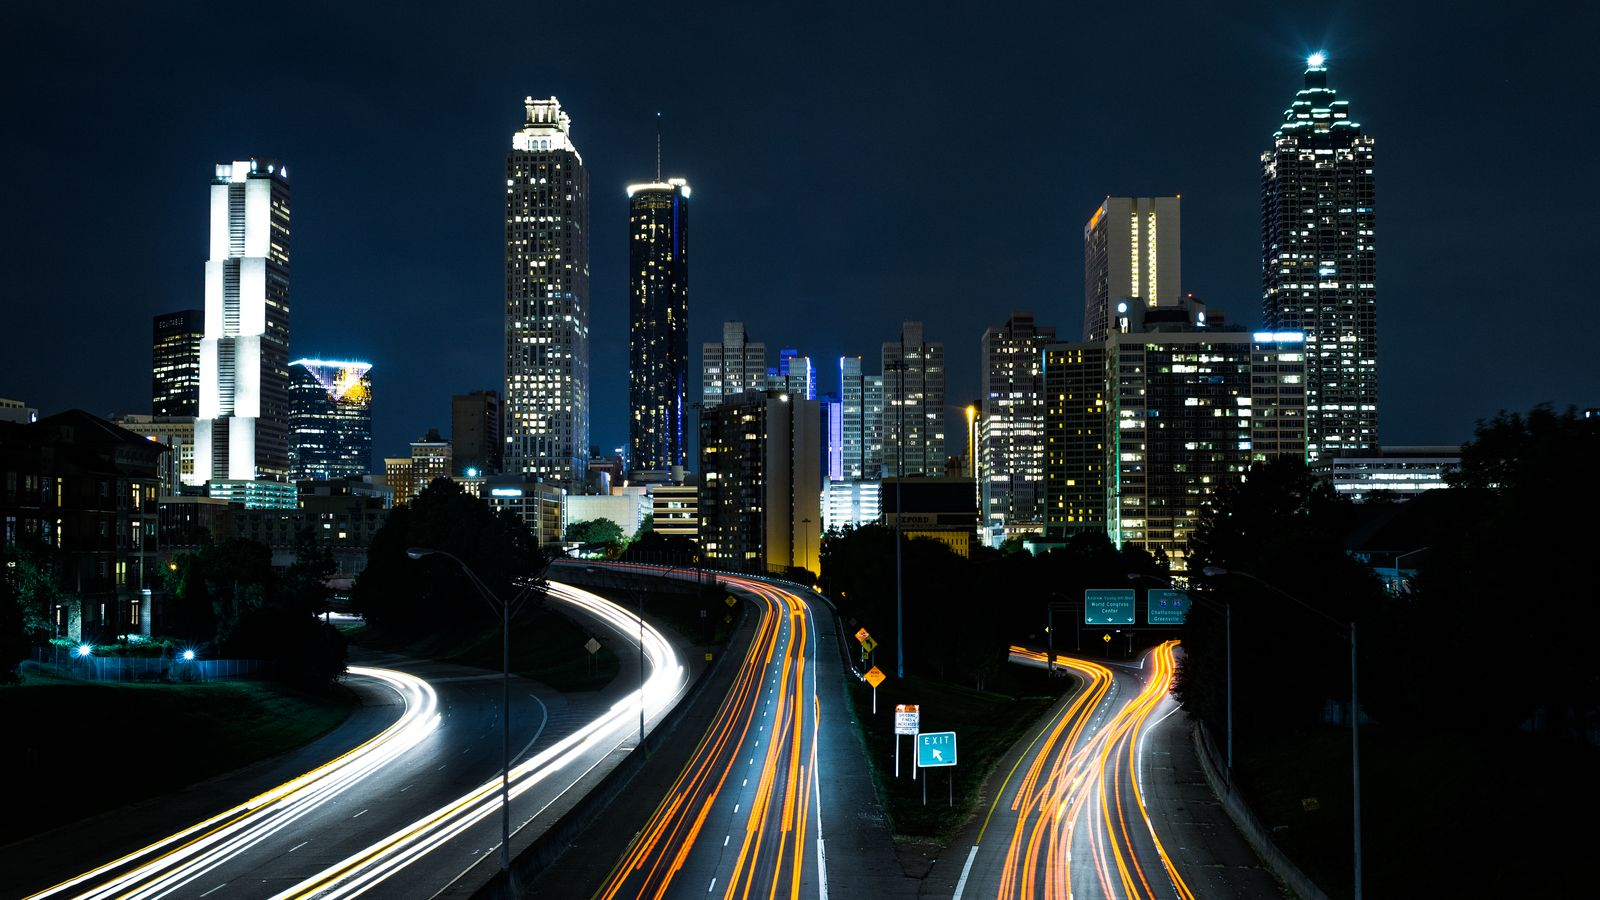
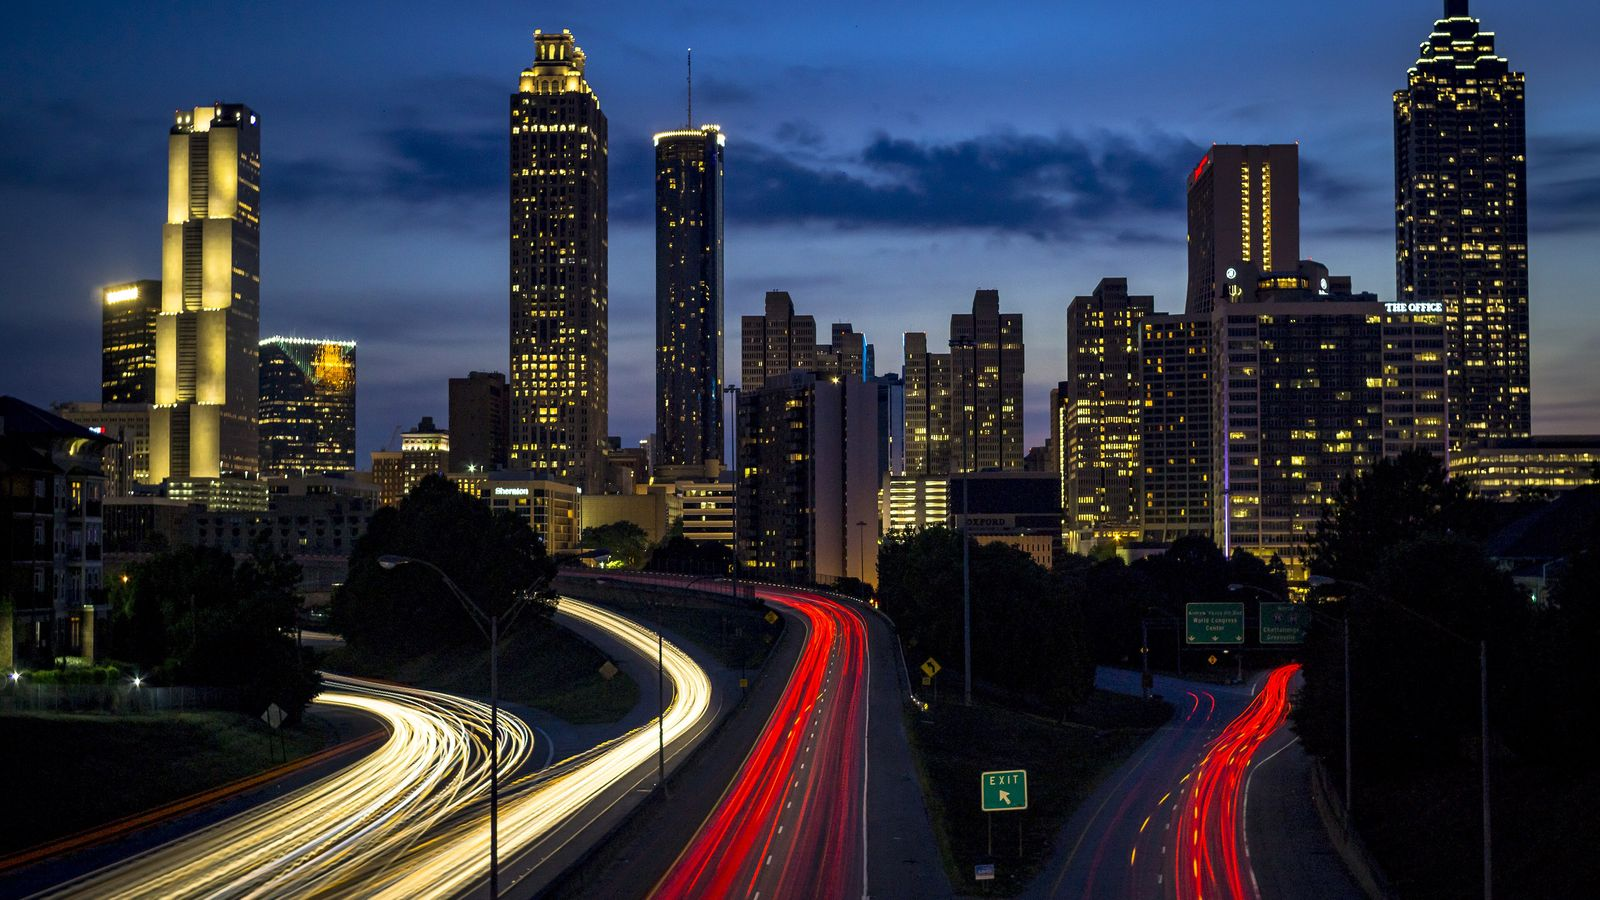
Swap hero photo to CC0 blue-hour Atlanta skyline (Jackson Street Bridge)

diff --git a/styles.css b/styles.css
@@ -202,7 +202,7 @@ li { margin-bottom: 0.4rem; }
 
 .hero-bg-b {
   background-image:
-    linear-gradient(135deg, rgba(2, 6, 17, 0.72), rgba(8, 10, 22, 0.76)),
+    linear-gradient(135deg, rgba(2, 6, 17, 0.6), rgba(8, 10, 22, 0.65)),
     url("images/atlanta.jpg");
   opacity: 0;
   animation: hero-crossfade 10s ease-in-out infinite;
